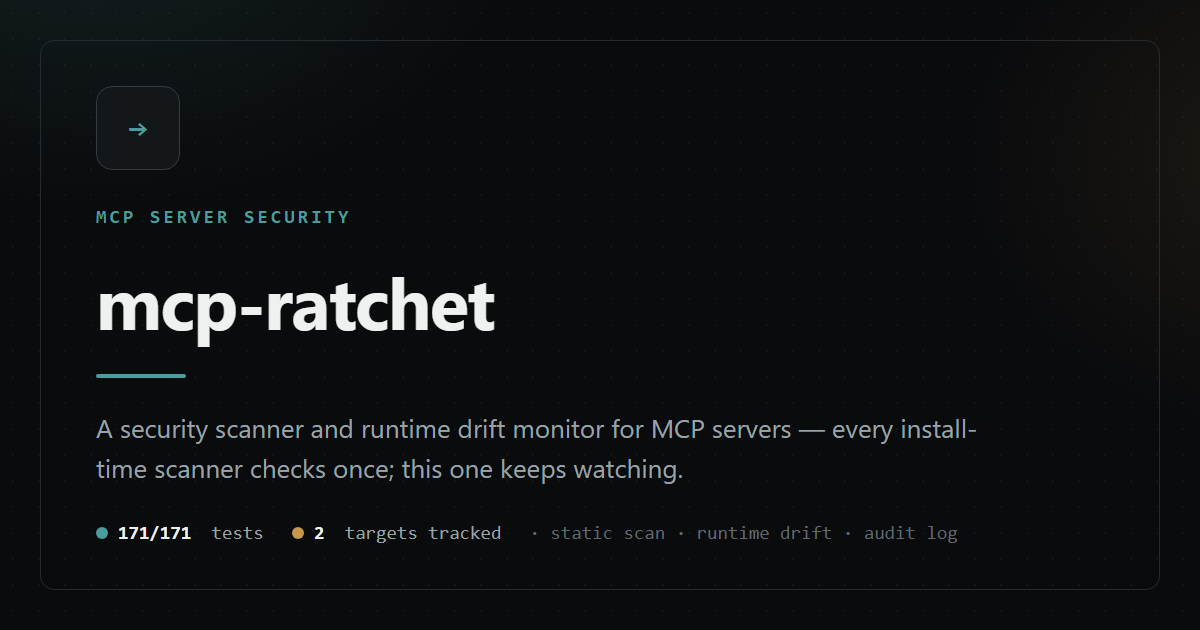
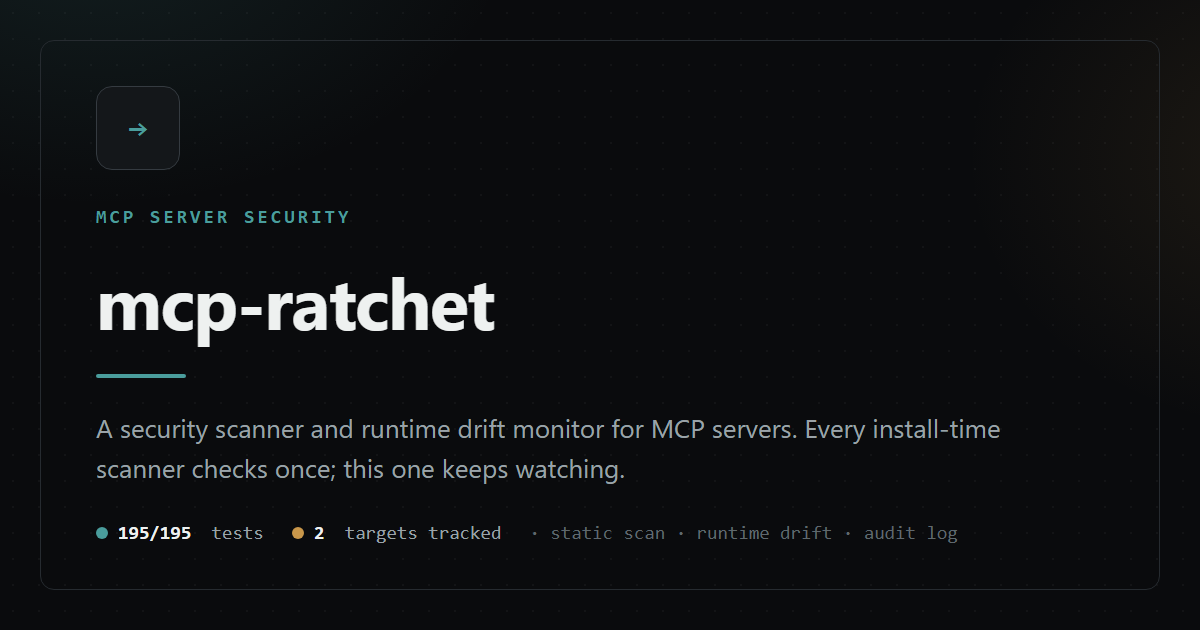
aRedo the social card without an em dash

Changed region(s): [[0.0617, 0.7238, 0.555, 0.7841], [0.6475, 0.6635, 0.8325, 0.7238], [0.0925, 0.8143, 0.1233, 0.8746]]

diff --git a/og-card-source.html b/og-card-source.html
@@ -40,7 +40,7 @@ p{font-size:26px;color:var(--ink-soft);max-width:920px;line-height:1.55;margin-b
   <div class="eyebrow">MCP Server Security</div>
   <h1>mcp-ratchet</h1>
   <div class="rule"></div>
-  <p>A security scanner and runtime drift monitor for MCP servers &mdash; every install-time scanner checks once; this one keeps watching.</p>
+  <p>A security scanner and runtime drift monitor for MCP servers. Every install-time scanner checks once; this one keeps watching.</p>
   <div class="stats">
     <span><span class="dot" style="background:var(--steel)"></span><strong>195/195</strong>&nbsp;tests</span>
     <span><span class="dot" style="background:var(--brass)"></span><strong>2</strong>&nbsp;targets tracked</span>
